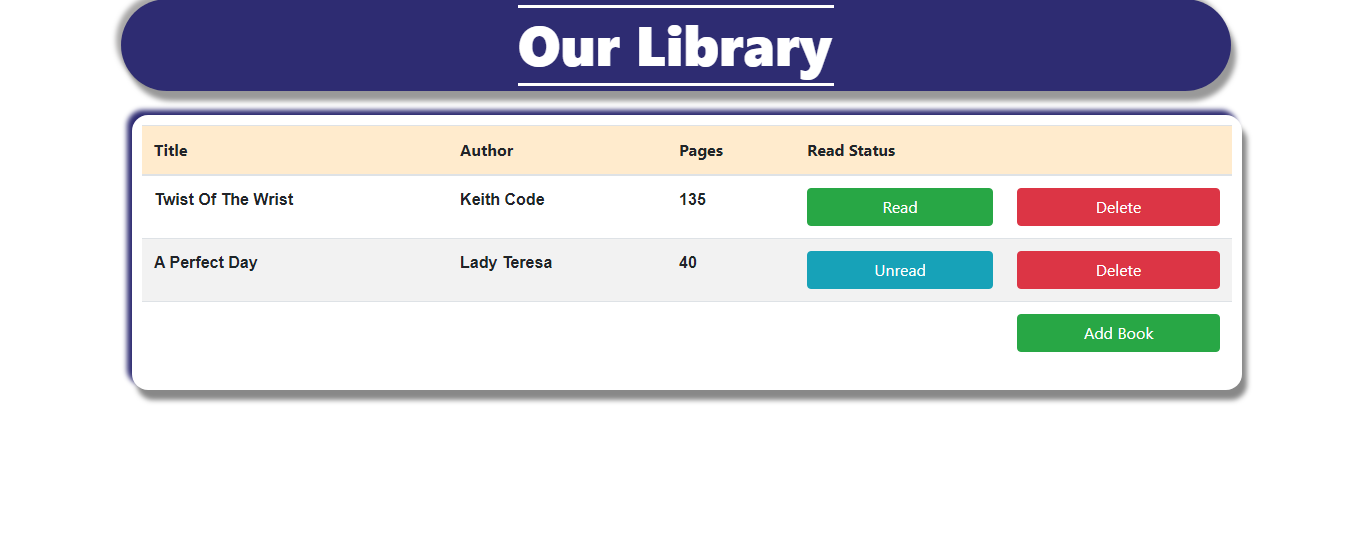
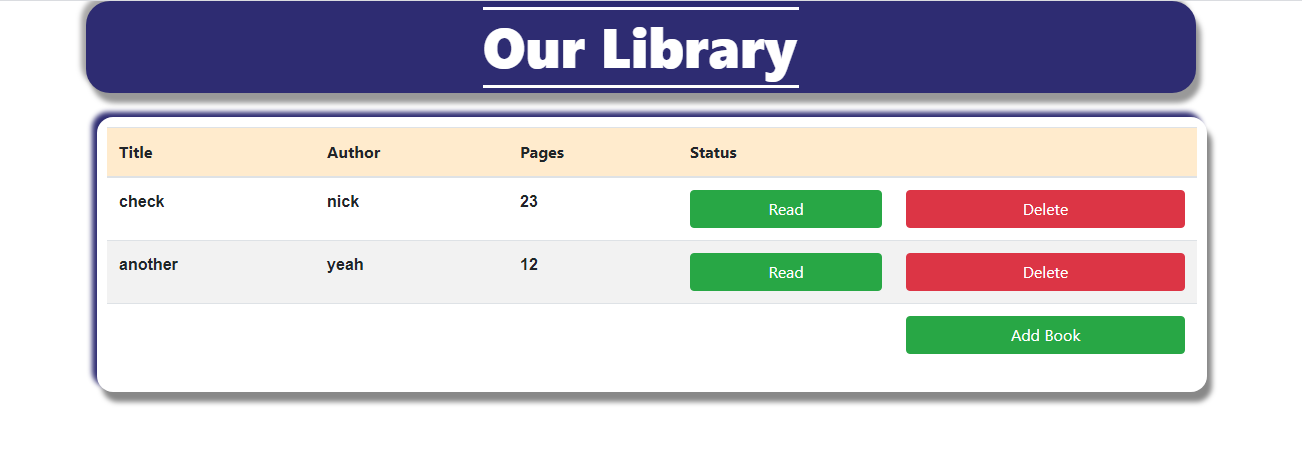
replaced the screenshot images

diff --git a/index.html b/index.html
@@ -28,7 +28,7 @@
             <th class="col-xs-8">Title</th>
             <th class="col-xs-1">Author</th>
             <th class="col-xs-1">Pages</th>
-            <th class="col-xs-1">Read Status</th>
+            <th class="col-xs-1">Status</th>
             <th class="col-xs-1"></th>
           </tr>
         </thead>
